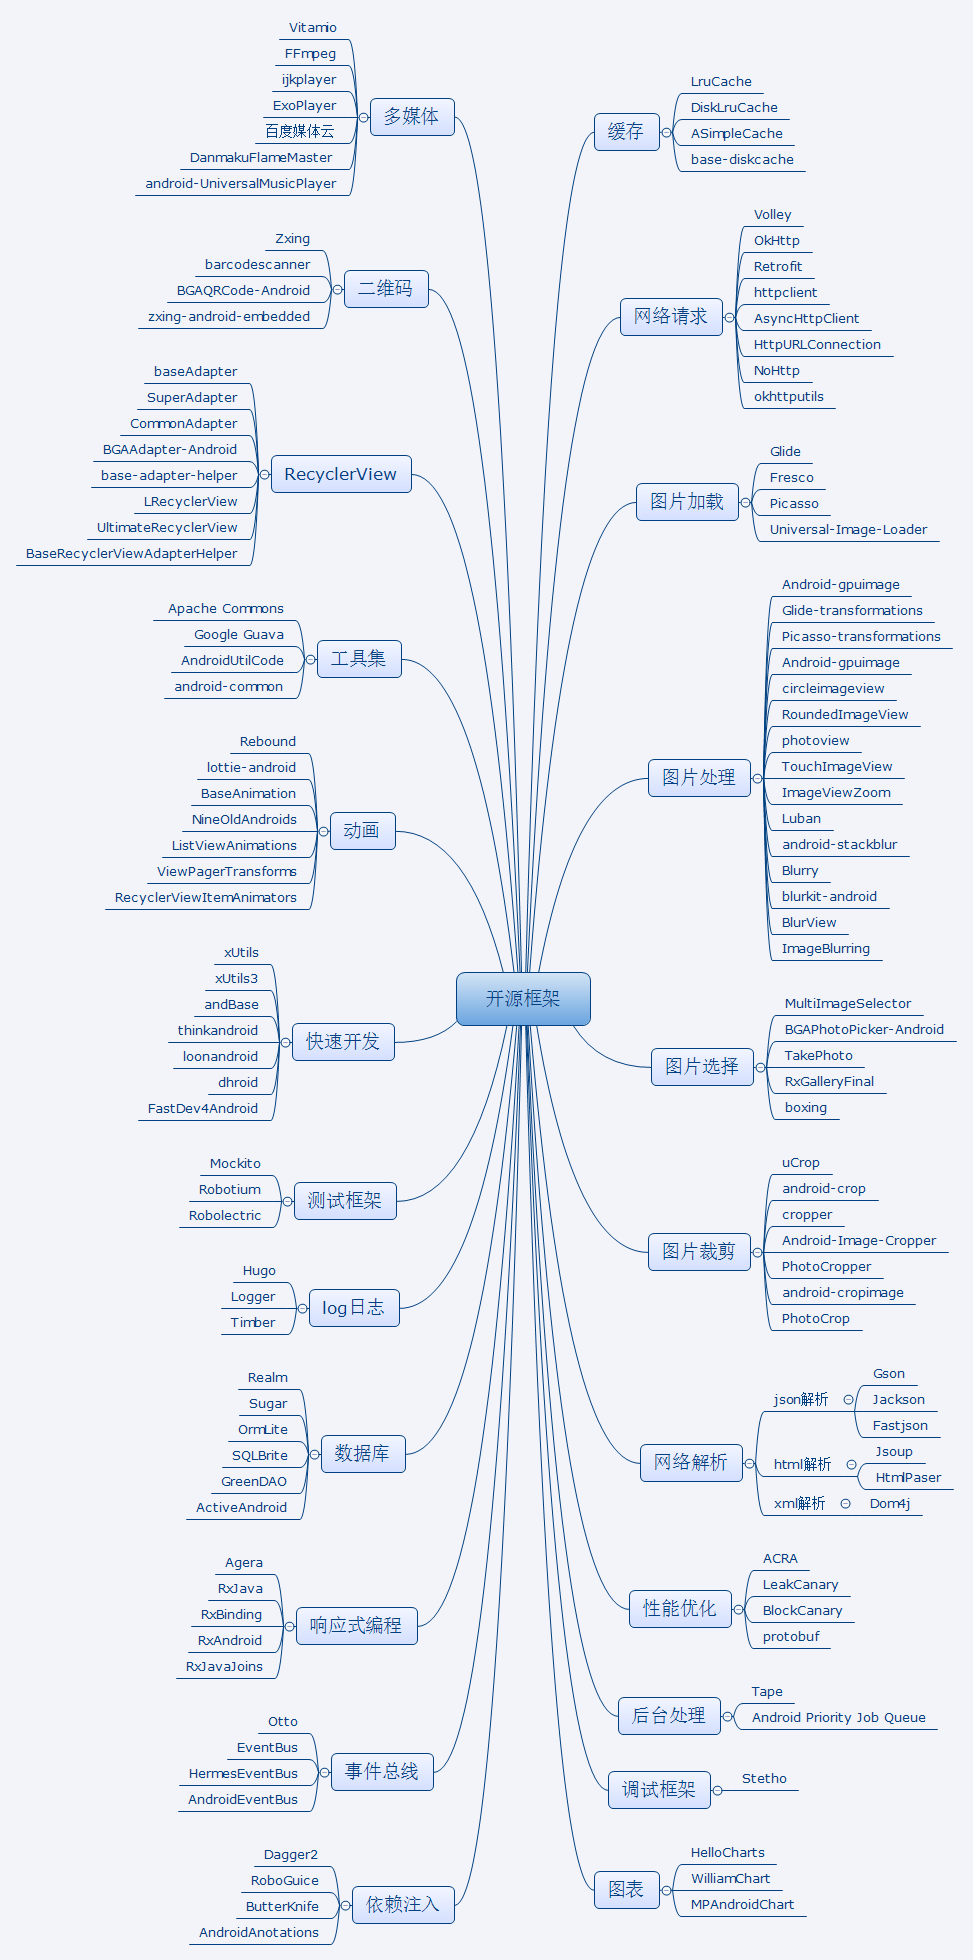
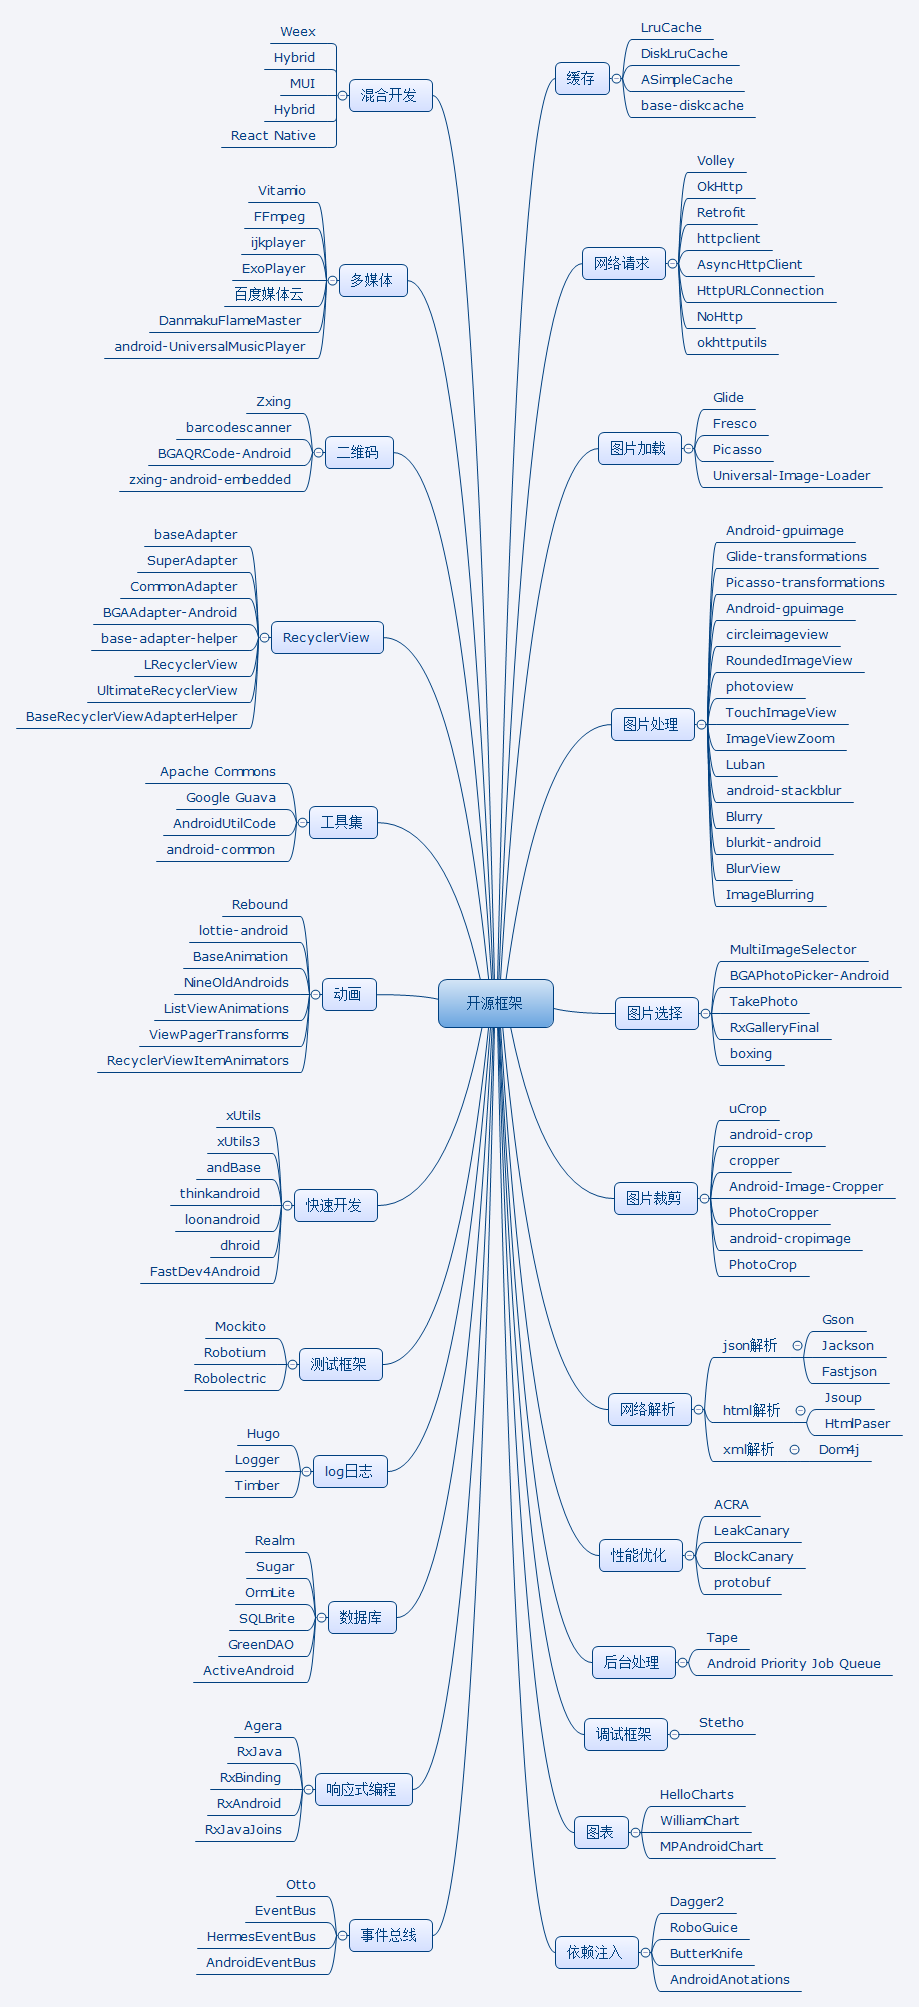
updates

Changed region(s): [[0.0305, 0.0, 0.975, 0.9959], [0.914, 0.8714, 0.9445, 0.9026], [0.1523, 0.5602, 0.1828, 0.5913]]

diff --git a/README.md b/README.md
@@ -1,40 +1,24 @@
 ## Android开源框架系列
 
 - [Android开源项目](http://blog.csdn.net/axi295309066/article/details/53857958)
-
 - [Android开发常用开源框架2](http://blog.csdn.net/axi295309066/article/details/53763565)
-
 - [Android开发常用开源框架3](http://blog.csdn.net/axi295309066/article/details/53783009)
-
 - [2017年伊始，你需要尝试的25个Android第三方库](http://blog.csdn.net/axi295309066/article/details/56013369)
-
 - [Android开发常用第三方平台](http://blog.csdn.net/axi295309066/article/details/52901991)
-
 - [免费的计算机编程类中文书籍](https://github.com/justjavac/free-programming-books-zh_CN)
-
 - [free-programming-books](https://github.com/vhf/free-programming-books)
-
 - [Mark！Android最佳的开源库集锦](http://weibo.com/ttarticle/p/show?id=2309404039858120191334)
-
 - [移动开发周刊：Android最佳的开源库集锦](http://weibo.com/ttarticle/p/show?id=2309404040295888065499)
-
 - [GitHub Top 100的Android开源库](http://mp.weixin.qq.com/s?__biz=MzA4NTQwNDcyMA==&mid=402675429&idx=1&sn=ba3afd2069004b220eaa8a77fdecbaf7&scene=4#wechat_redirect)
-
 - [Android 开源项目分类汇总](https://github.com/Trinea/android-open-project)
-
 - [GitHub Android Libraries Top 100 简介](https://github.com/Freelander/Android_Data/blob/master/Android-Librarys-Top-100.md)
-
 - [Android 学习资料收集](https://github.com/Freelander/Android_Data)
-
 - [awesome-android-ui](https://github.com/wasabeef/awesome-android-ui)
-
 - [Awesome-MaterialDesign](https://github.com/lightSky/Awesome-MaterialDesign)
-
 - [awesome-android](https://snowdream.github.io/awesome-android/)
-
 - [Andriod-collect-blogs](https://github.com/ZQiang94/Andriod-collect-blogs)
-
 - [计算机常用基础算法](https://github.com/shijiebei2009/Algorithms)
+- [阿里珍贵技术资料限时免费下载](https://zhuanlan.zhihu.com/p/25620810)
 
 ## 目录
 
@@ -45,6 +29,7 @@
 * [工具集](工具集/commons.md)
 * [2017年伊始，你需要尝试的25个Android第三方库](android-open-project/2017年伊始，你需要尝试的25个Android第三方库.md)
 * [第三方开发平台](开放平台/第三方开发平台.md)
+* [混合开发](混合开发/混合开发.md)
 * [图片处理](图片处理/图片处理.md)
 * [网络请求](网络请求/net.md)
 * [响应式编程](响应式编程/rx.md)

diff --git a/性能优化/performance.md b/性能优化/performance.md
@@ -5,6 +5,7 @@
 | [LeakCanary](https://github.com/square/leakcanary) | 内存泄漏检测工具              |
 | [BlockCanary](http://blog.zhaiyifan.cn/2016/01/16/BlockCanaryTransparentPerformanceMonitor/?utm_source=tuicool&utm_medium=referral) | 轻松找出Android App界面卡顿元凶 |
 | [ACRA](https://github.com/ACRA/acra)     | Android应用程序崩溃报告       |
+| [battery-historian](https://github.com/google/battery-historian) | 电量分析                  |
 
 ## [Google Guava](https://github.com/google/guava)
 

diff --git a/数据库/database.md b/数据库/database.md
@@ -11,3 +11,7 @@
 | [android-database-sqlcipher](https://github.com/sqlcipher/android-database-sqlcipher) | 数据库加密                                    |
 | [storio](https://github.com/pushtorefresh/storio) | Beautiful API for SQLiteDatabase and ContentResolver |
 | [realm-java](https://github.com/realm/realm-java) | 高性能数据库，Realm is a mobile database: a replacement for SQLite & ORMs |
+
+**ActiveRecord**
+
+http://houzhe11.iteye.com/blog/494296

diff --git a/SUMMARY.md b/SUMMARY.md
@@ -5,6 +5,7 @@
 * [开源项目](company/company.md)
 * [2017年伊始，你需要尝试的25个Android第三方库](android-open-project/2017年伊始，你需要尝试的25个Android第三方库.md)
 * [第三方开发平台](开放平台/第三方开发平台.md)
+* [混合开发](混合开发/混合开发.md)
 * [快速开发框架](快速开发/快速开发.md)
 * [工具集](工具集/commons.md)
 * [图片处理](图片处理/图片处理.md)

diff --git a/混合开发/混合开发.md b/混合开发/混合开发.md
@@ -1,0 +1,7 @@
+| 开源库          | 说明                |
+| ------------ | ----------------- |
+| React Native | Facebook开源的跨平台开发库 |
+| Weex         | 阿里巴巴开源的跨平台开发库     |
+| Hybrid       |                   |
+| MUI          |                   |
+| Hybrid       | 混合开发（H5）          |
